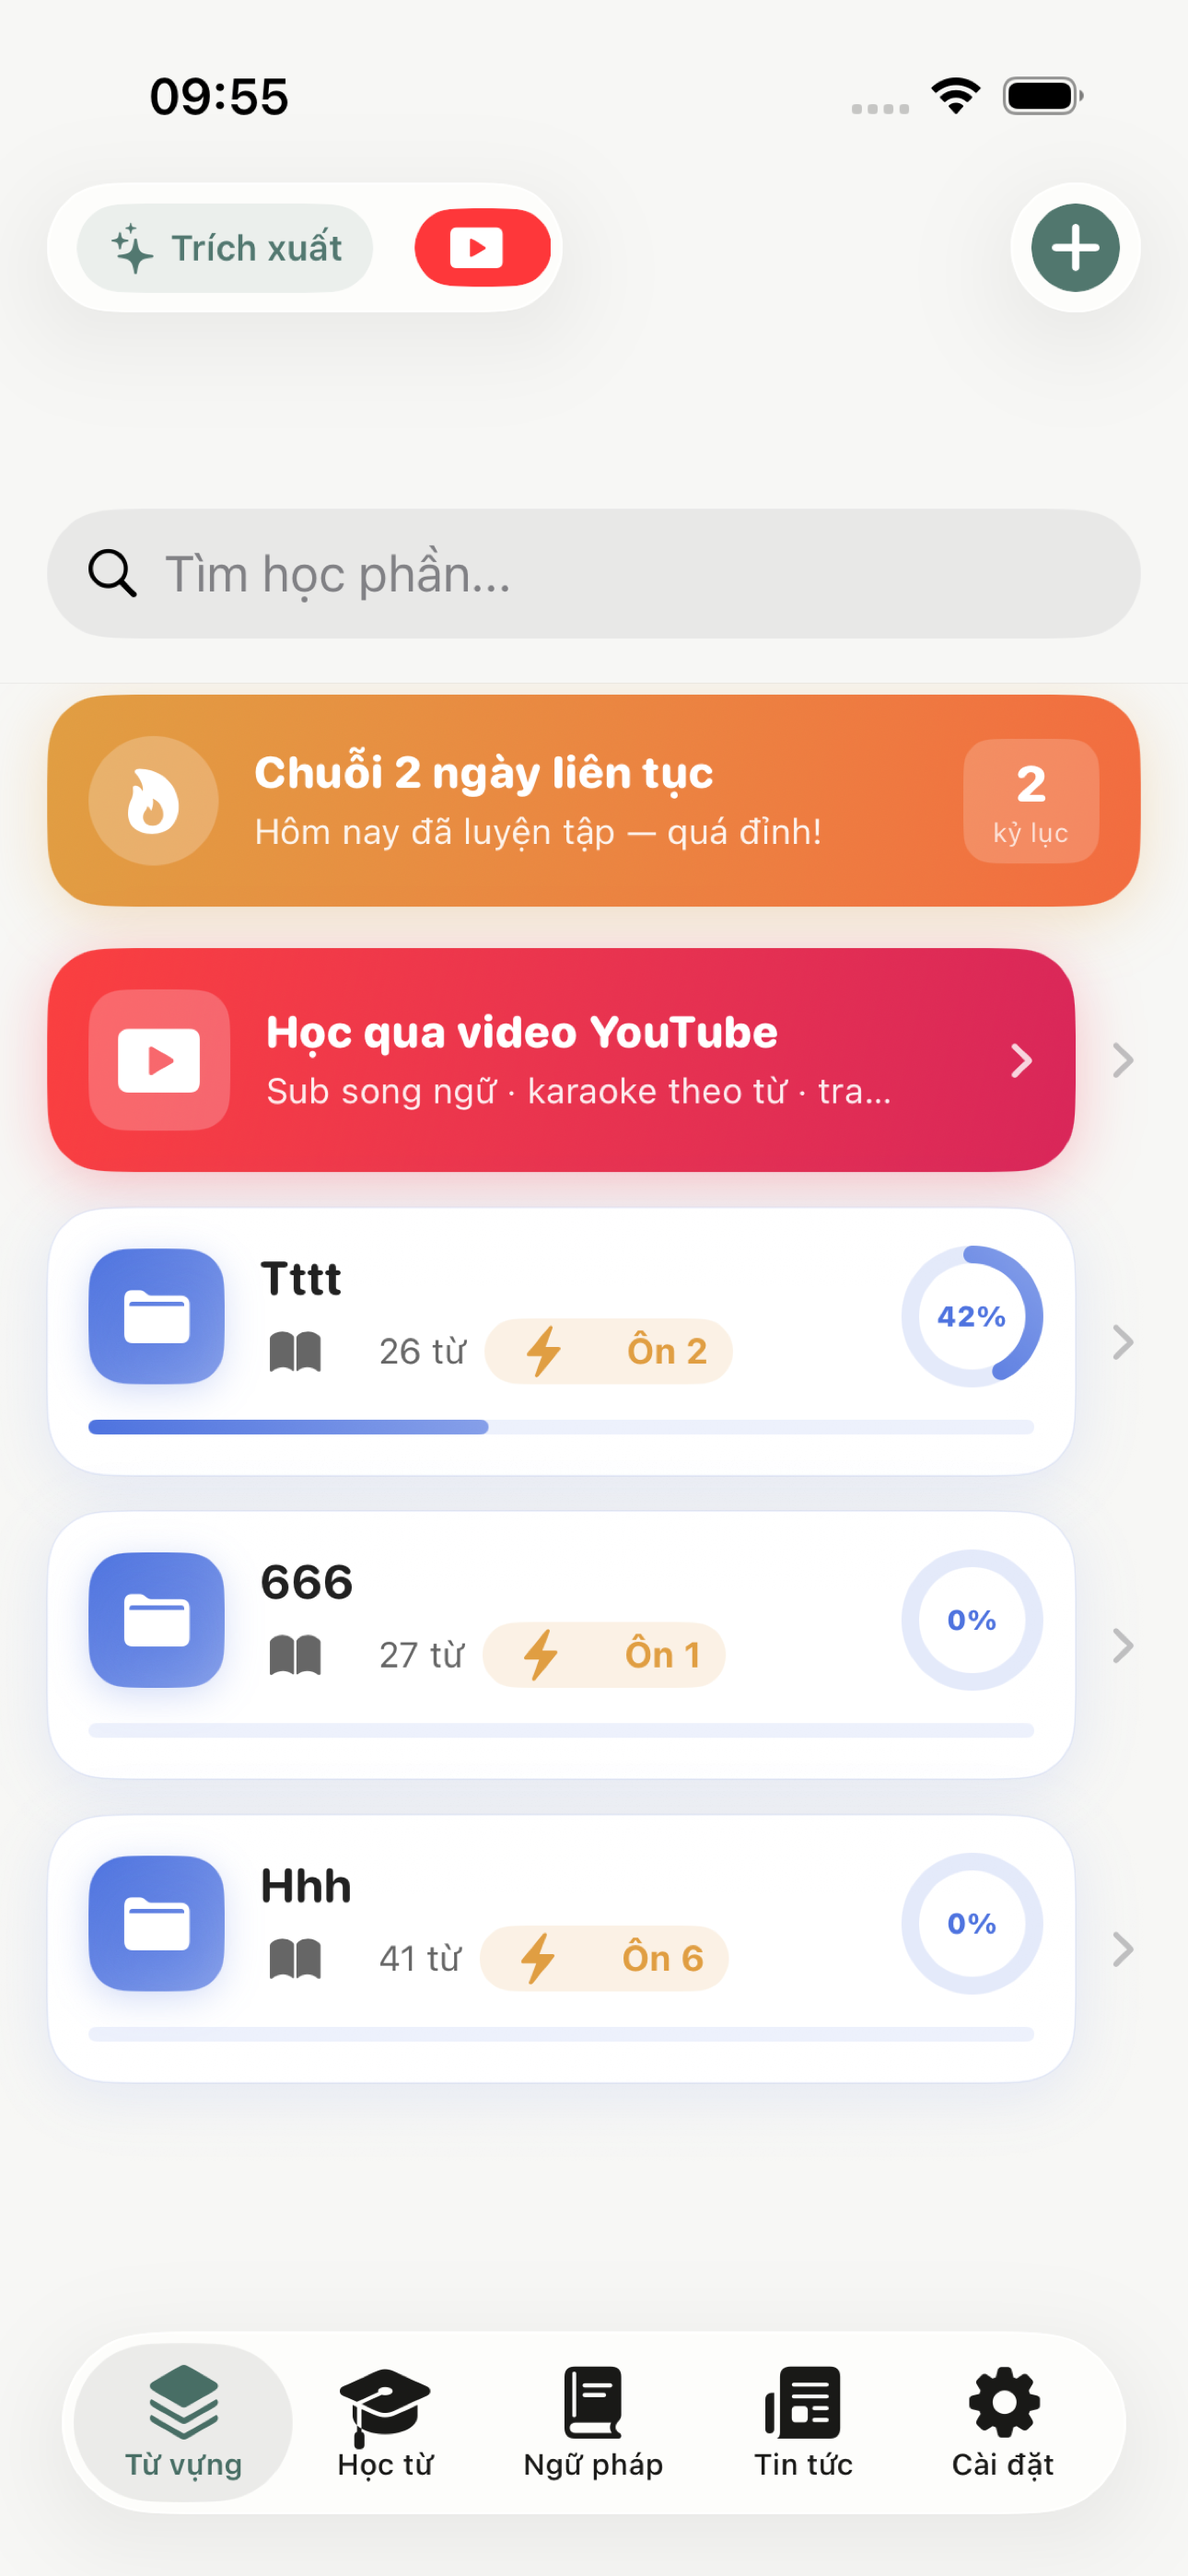
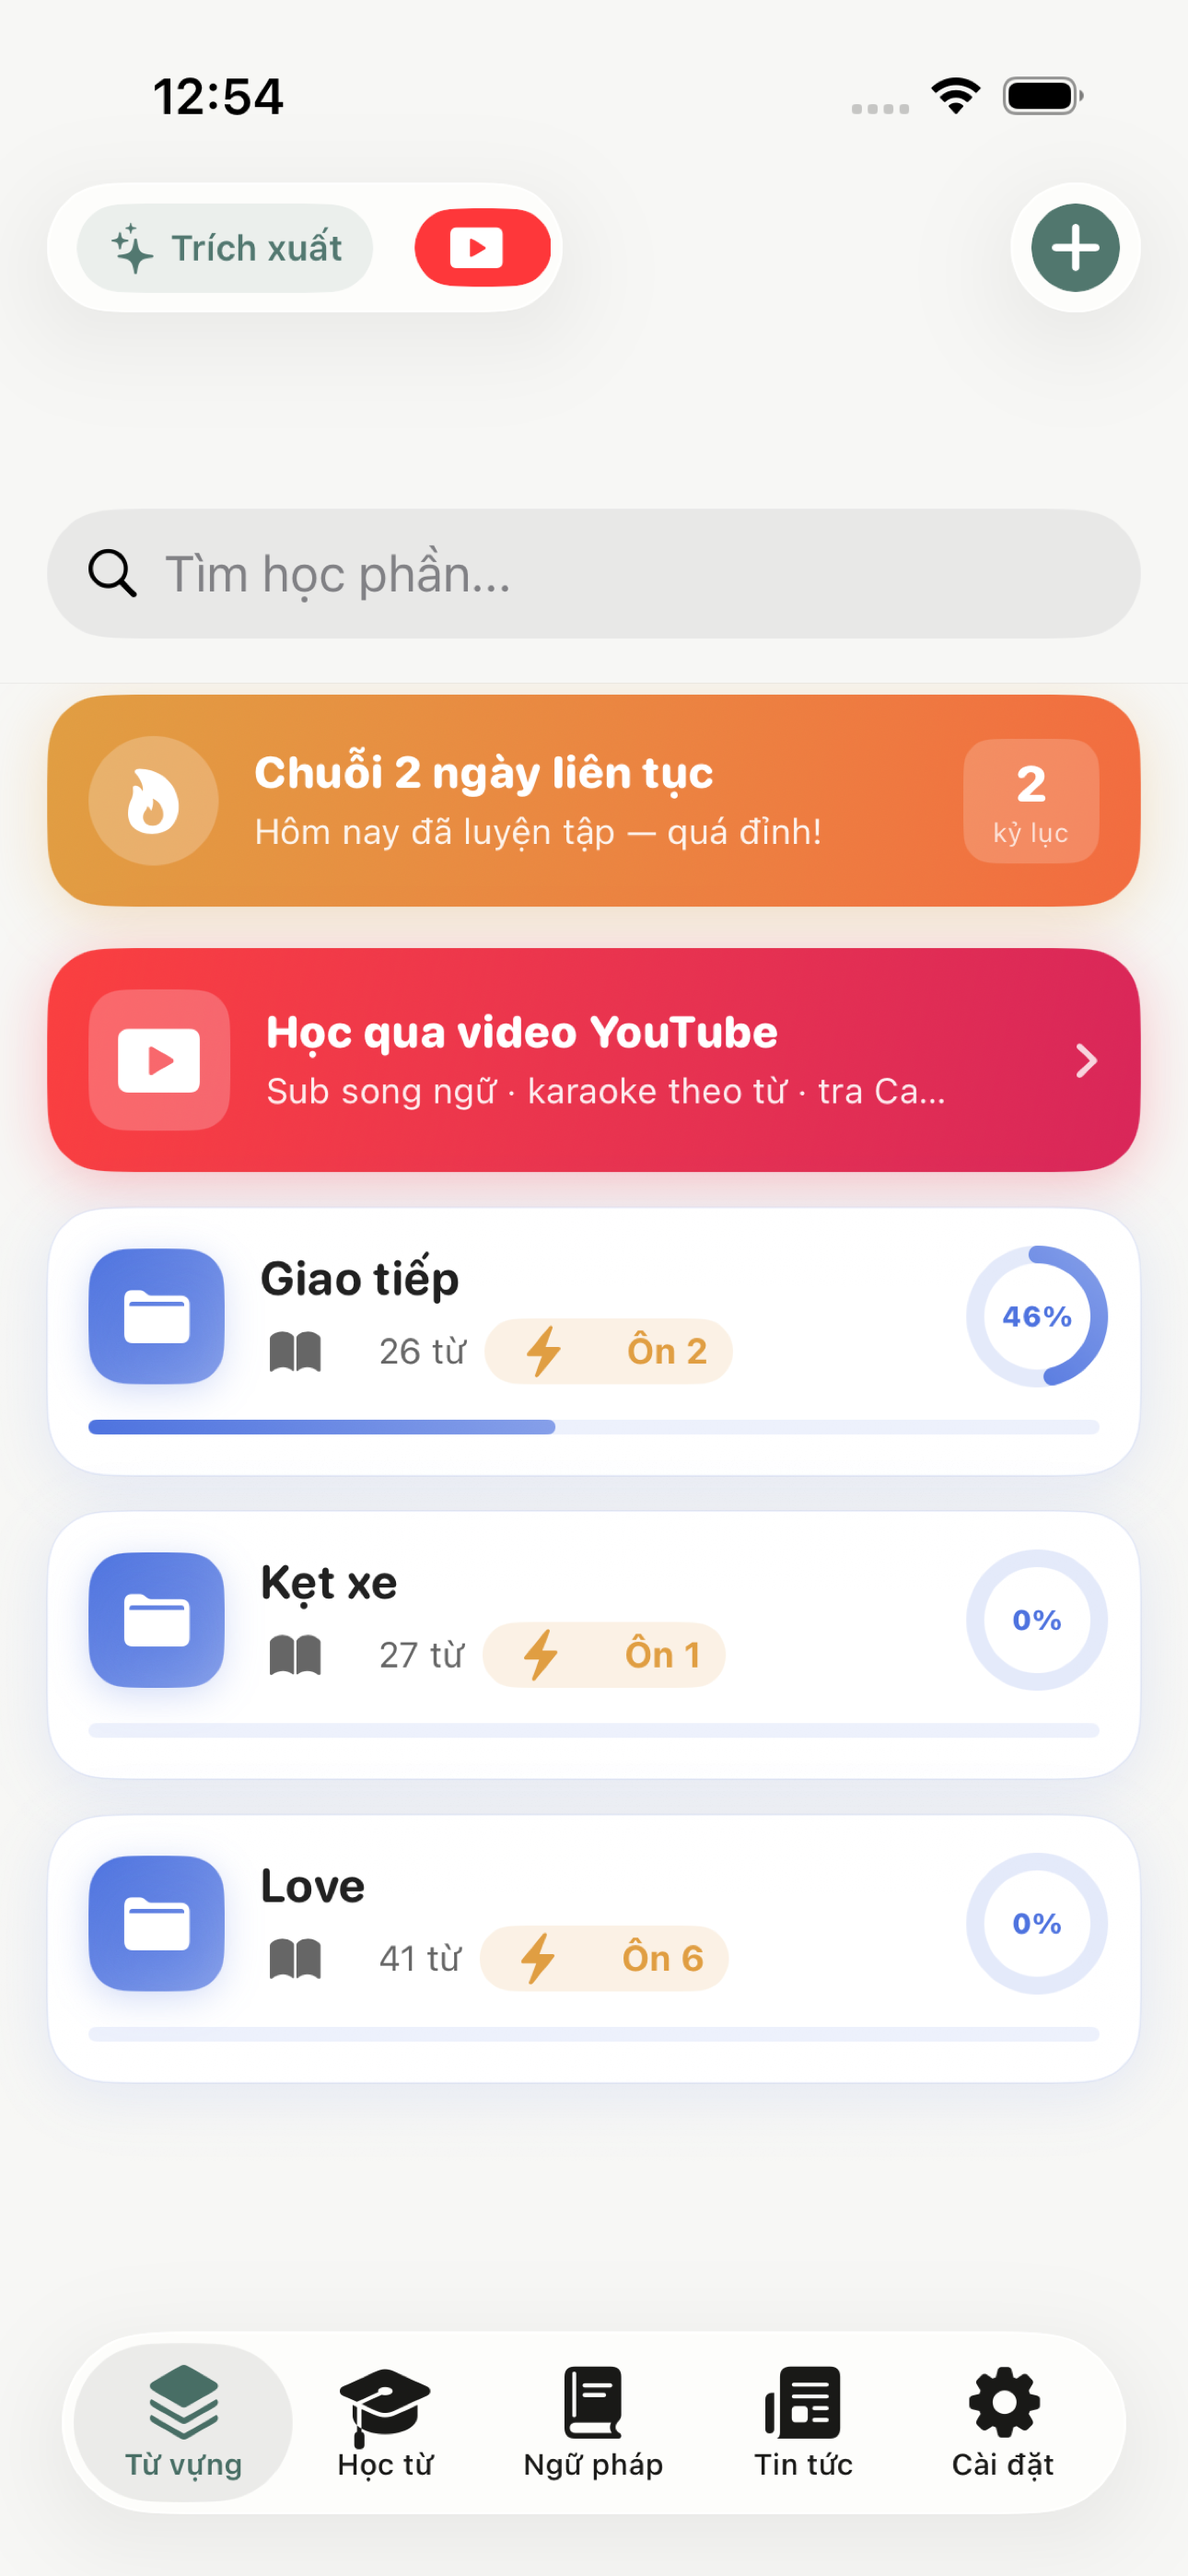
docs: full 13-screen gallery (recaptured via XCUITest) + a11y labels

diff --git a/Views/Vocabulary/DeckDetailView.swift b/Views/Vocabulary/DeckDetailView.swift
@@ -58,6 +58,7 @@ struct DeckDetailView: View {
                 HStack(spacing: 10) {
                     NavigationLink(destination: DeckStatsView(deck: deck)) {
                         Image(systemName: "chart.bar.fill")
+                            .accessibilityLabel("Thống kê ôn tập")
                             .font(.system(size: 14, weight: .bold))
                             .foregroundStyle(AppTheme.primary)
                             .frame(width: 30, height: 30)
@@ -68,6 +69,7 @@ struct DeckDetailView: View {
                     // Export deck as CSV (importable into Anki / Excel / Quizlet)
                     ShareLink(item: deckCSVFile) {
                         Image(systemName: "square.and.arrow.up")
+                            .accessibilityLabel("Xuất CSV")
                             .font(.system(size: 14, weight: .bold))
                             .foregroundStyle(AppTheme.accent)
                             .frame(width: 30, height: 30)

diff --git a/Views/Vocabulary/VocabularyListView.swift b/Views/Vocabulary/VocabularyListView.swift
@@ -83,6 +83,7 @@ struct VocabularyListView: View {
                                         deckCard(for: deck)
                                     }
                                     .buttonStyle(.plain)
+                                    .accessibilityIdentifier("deck-card")
                                     .listRowInsets(EdgeInsets(top: 6, leading: 16, bottom: 6, trailing: 16))
                                     .listRowSeparator(.hidden)
                                     .listRowBackground(Color.clear)

diff --git a/Views/News/NewsListView.swift b/Views/News/NewsListView.swift
@@ -393,6 +393,7 @@ struct NewsListView: View {
                     ForEach(items.prefix(visibleCount)) { item in
                         NavigationLink(destination: NewsArticleView(item: item)) {
                             NewsArticleRow(item: item)
+                                .accessibilityIdentifier("news-article-row")
                         }
                         .buttonStyle(.plain)
                     }

diff --git a/README.md b/README.md
@@ -21,7 +21,7 @@ An AI-powered English learning app for iOS, featuring intelligent vocabulary ext
 Experience the smart import, karaoke subtitles and bilingual news reading in action:
 
 <div align="center">
-<img src="AppStoreScreenshots/01-home.png" width="180" alt="Màn chủ"> <img src="AppStoreScreenshots/02-grammar-roadmap.png" width="180" alt="Ngữ pháp"> <img src="AppStoreScreenshots/04-news-feed.png" width="180" alt="Tin tức"> <img src="AppStoreScreenshots/05-article-bilingual.png" width="180" alt="Đọc song ngữ">
+<img src="AppStoreScreenshots/01-home.png" width="170" alt="Màn chủ"> <img src="AppStoreScreenshots/10-news-feed.png" width="170" alt="Tin tức"> <img src="AppStoreScreenshots/11-article-bilingual.png" width="170" alt="Đọc song ngữ"> <img src="AppStoreScreenshots/05-stats.png" width="170" alt="Thống kê SRS">
 </div>
 
 > **Coming Soon** — Demo video showcasing AI import, word-karaoke YouTube study, and speaking practice...
@@ -37,6 +37,23 @@ Experience the smart import, karaoke subtitles and bilingual news reading in act
 * **Speaking Practice (Speak & Check):** en-US speech recognition scores pronunciation word-by-word (filler removal, inflection tolerance) and **auto-stops when you've said enough** — results feed straight back into the SM-2 schedule.
 * **Grammar & IPA Curriculum:** CEFR A1–B2 roadmap timeline with per-phase progress, 28 full lessons (formulas, bilingual examples, common mistakes, multi-answer exercises) and a 44-sound IPA table with UK/US voice toggle.
 * **Ecosystem Extras:** Home-screen widget ("X từ cần ôn"), daily review reminder, learning streak 🔥, iCloud sync (SwiftData + CloudKit), CSV export, iPad/landscape two-column layouts, onboarding flow.
+
+---
+
+## 📸 Screenshots — Toàn bộ màn hình
+
+| | | |
+|:---:|:---:|:---:|
+| **Từ vựng** | **YouTube catalog** | **Trích xuất AI** |
+| <img src="AppStoreScreenshots/01-home.png" width="200"> | <img src="AppStoreScreenshots/02-youtube-catalog.png" width="200"> | <img src="AppStoreScreenshots/03-import.png" width="200"> |
+| **Chi tiết học phần** | **Thống kê SM-2** | **Luyện nói** |
+| <img src="AppStoreScreenshots/04-deck-detail.png" width="200"> | <img src="AppStoreScreenshots/05-stats.png" width="200"> | <img src="AppStoreScreenshots/06-speak.png" width="200"> |
+| **Lộ trình ngữ pháp** | **Bài học ngữ pháp** | **Bảng IPA** |
+| <img src="AppStoreScreenshots/07-grammar-roadmap.png" width="200"> | <img src="AppStoreScreenshots/08-grammar-lesson.png" width="200"> | <img src="AppStoreScreenshots/09-ipa.png" width="200"> |
+| **Bảng tin** | **Đọc song ngữ** | **Bản đồ học từ** |
+| <img src="AppStoreScreenshots/10-news-feed.png" width="200"> | <img src="AppStoreScreenshots/11-article-bilingual.png" width="200"> | <img src="AppStoreScreenshots/12-game-hub.png" width="200"> |
+| **Cài đặt** | | |
+| <img src="AppStoreScreenshots/13-settings.png" width="200"> | | |
 
 ---
 
